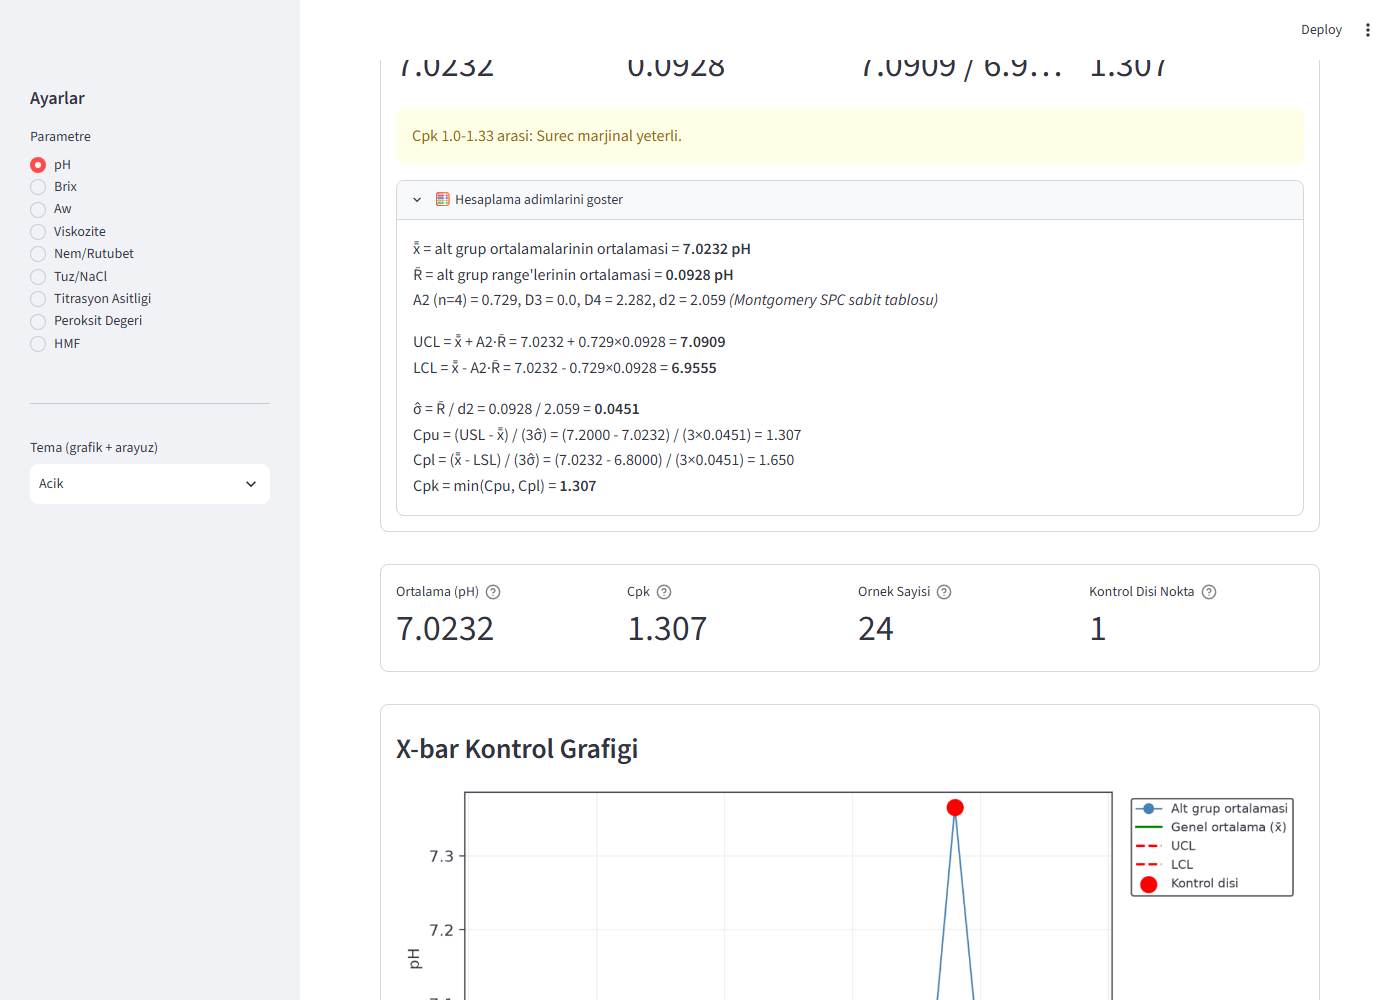
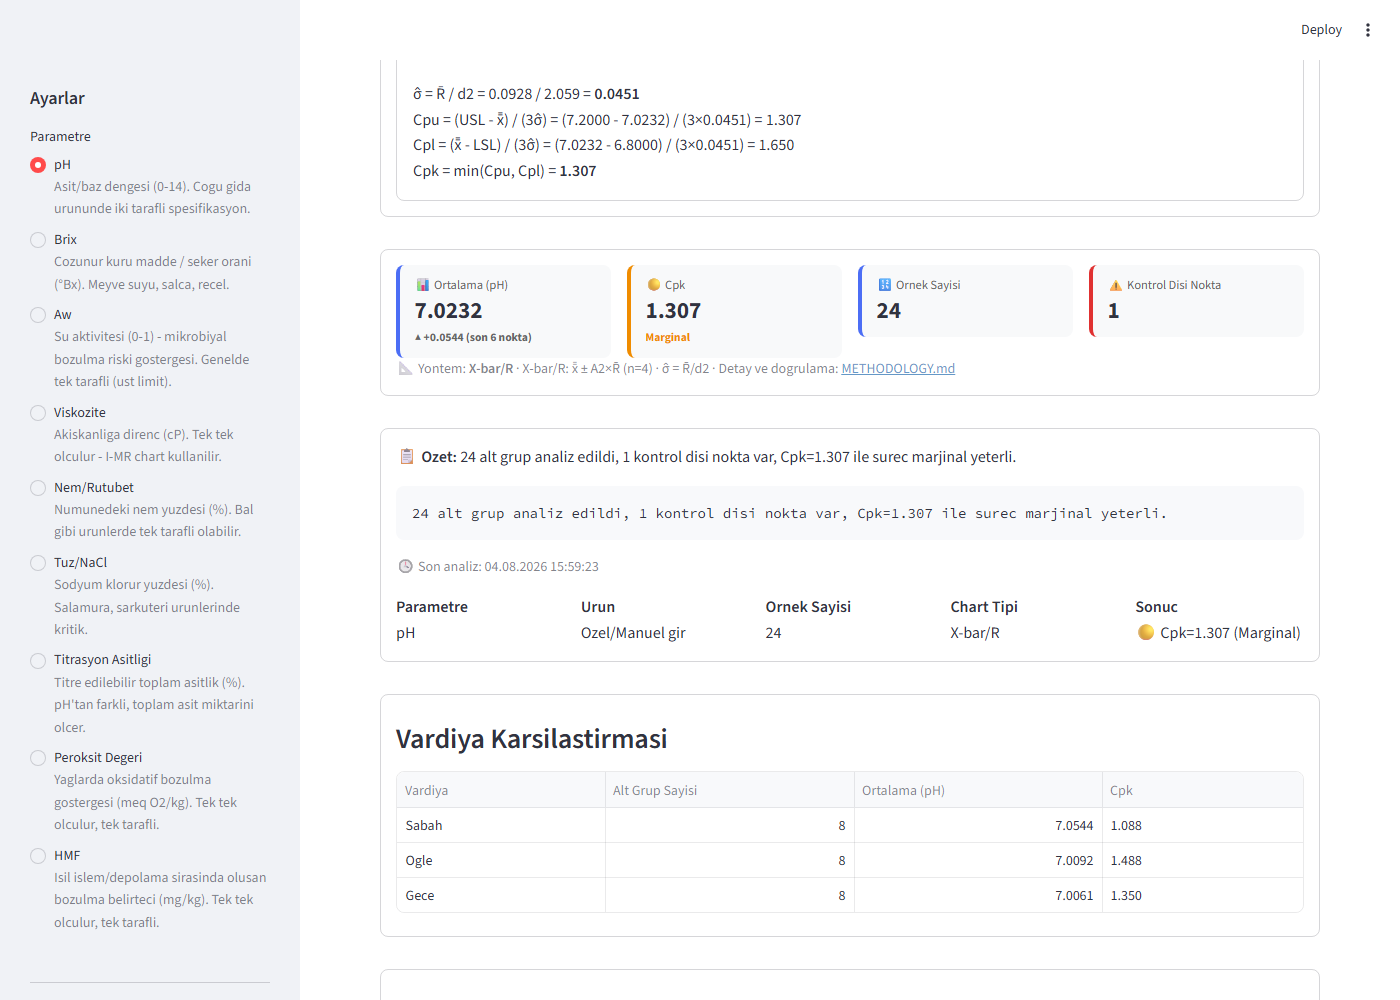
Update docs and screenshots for v1.1 polish round
README/METHODOLOGY now reflect the v1.1 additions (KPI dashboard, PDF
export, configurable n replacing the old n=4-fixed scope note, Cpk
badge thresholds, trend indicator caveat). Screenshots recaptured
against the new colorful KPI panel/quick-summary/last-analysis UI.

diff --git a/README.md b/README.md
@@ -25,6 +25,9 @@ SPC FoodLab turns routine food-quality lab measurements into proper
   Cpk/Cpu, including the R̄=0 edge case) is validated against a
   textbook or industry worked example before being trusted — see
   `tests/` (10 automated tests across 3 files).
+- Result dashboard with a Cpk/Cpu level badge, an auto-generated plain-text
+  summary, a shift-by-shift comparison table, and a one-page PDF report
+  export — on top of the existing PNG chart export and CSV import/export.
 - Built with Python + Streamlit, deployed on Streamlit Community
   Cloud. Independent, individually-developed project (built to apply
   SPC/quality-engineering coursework to a real, deployed tool).
@@ -61,8 +64,7 @@ mantık ve kaynaklar için [METHODOLOGY.md](METHODOLOGY.md).
 
 **Kapsam dışı (v1'de yok):** çoklu parametre karşılaştırma, Western
 Electric kuralları, kullanıcı hesabı/çoklu kullanıcı sistemi, veritabanı
-entegrasyonu (session-state + CSV export yeterli), değişken alt grup
-büyüklüğü (n=4 sabit).
+entegrasyonu (session-state + CSV export yeterli).
 
 ## Hızlı Hesaplayıcılar — Totox
 
@@ -85,6 +87,8 @@ Uygulama varsayılan olarak `http://localhost:8501` üzerinde açılır.
 ## Teknik yığın
 
 - **Streamlit** (Python) — form, hesaplama ve grafik tek pakette
+- **matplotlib + scipy** — kontrol grafikleri ve kapasite histogramı
+- **fpdf2** — tek sayfalık PDF analiz raporu export'u
 - **Deploy:** Streamlit Community Cloud
 - Veri kalıcılığı: session-state (uygulama içi) + CSV export — v1'de
   veritabanı entegrasyonu yok
@@ -97,7 +101,7 @@ spc-foodlab/
 │   ├── app.py          # Streamlit arayüzü (4 sekme)
 │   ├── spc_core.py     # X-bar/R, I-MR ve Cpk hesaplama çekirdeği
 │   ├── demo_data.py    # Kontrollü simülasyon veri üreteci (alt grup + bireysel)
-│   └── constants.py    # Sabit yapılandırma (n=4, parametre/ürün tabloları)
+│   └── constants.py    # Sabit yapılandırma (varsayılan n=4, parametre/ürün/kaynak tabloları)
 ├── tests/
 │   ├── test_validation.py      # X-bar/R formül doğrulama testi (pH örneği)
 │   ├── test_imr_validation.py  # I-MR formül doğrulama testi (kahve sıcaklığı örneği)

diff --git a/METHODOLOGY.md b/METHODOLOGY.md
@@ -120,6 +120,33 @@ olarak anlamlı bir sonuçla ele alır:
 Bu davranış hem X-bar/R hem I-MR yolları için geçerlidir (ikisi de aynı
 `compute_cpk()` fonksiyonunu kullanır).
 
+#### Sonuç seviyesi rozeti
+
+KPI panelindeki Cpk/Cpu kartında görülen 🟢/🟡/🔴 rozet, `get_cpk_level()`
+fonksiyonundaki (`src/app.py`) şu eşiklere dayanır — bu, hesaplamayı
+etkilemeyen, salt görsel bir sınıflandırmadır:
+
+| Cpk/Cpu | Rozet |
+|---|---|
+| ≥ 1.67 | 🟢 Excellent |
+| 1.33 – 1.67 | 🟢 Capable |
+| 1.0 – 1.33 | 🟡 Marginal |
+| < 1.0 | 🔴 Not Capable |
+
+`render_cpk_message()`'in metin uyarısı (başarı/uyarı/hata kutusu) daha
+kaba bir 3'lü eşik kullanır (<1.0 / 1.0–1.33 / ≥1.33); ikisi birbirini
+tamamlar, çelişmez — rozet daha ince taneli bir okuma sağlar.
+
+#### Trend göstergesi
+
+"Ortalama" KPI kartındaki ▲/▼/→ ok, istatistiksel bir kontrol testi
+DEĞİLDİR — `compute_trend()` (`src/app.py`) son N noktanın ortalamasıyla
+(N = min(6, örnek sayısı/2)) ondan önceki N noktanın ortalamasını
+karşılaştıran basit, tanımlayıcı bir gösterge. Yön ve büyüklük bir
+sürecin "iyi" ya da "kötü" gittiğini değil, sadece son verilerin genel
+ortalamaya göre nereye kaydığını gösterir; süreç yeterliliği için tek
+başına Cpk/Cpu ve kontrol limitlerine bakılmalıdır.
+
 ## Doğrulama
 
 Her formül, kodlamadan önce elle çözülmüş literatür örnekleriyle test
